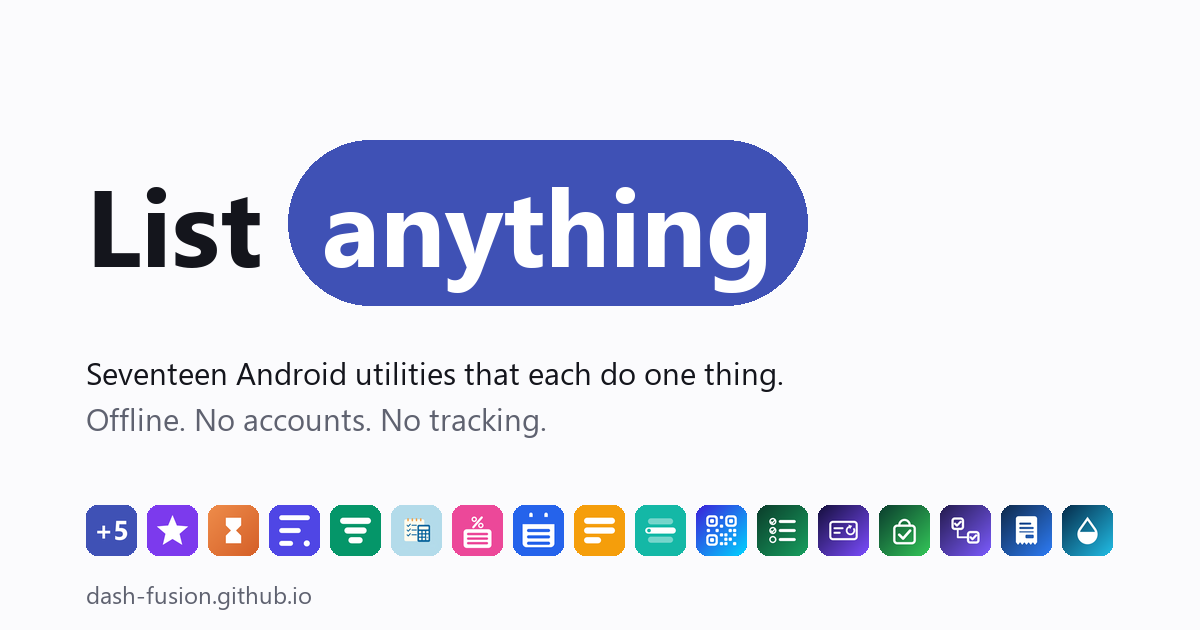
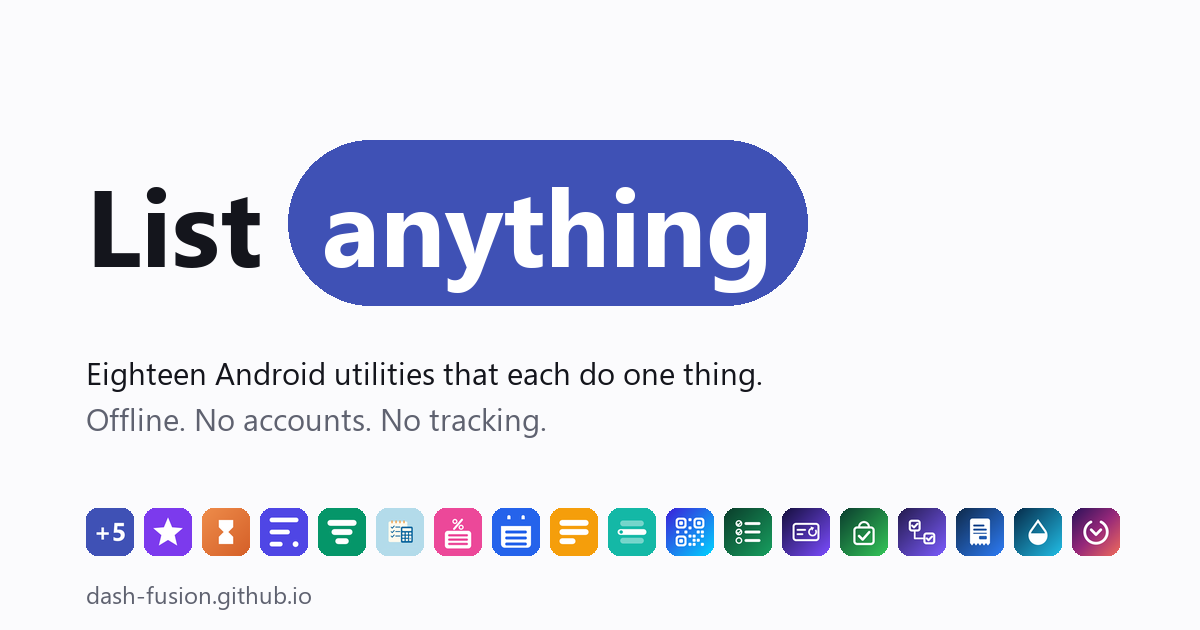
Add List Countdown as the eighteenth app

Changed region(s): [[0.0617, 0.7841, 0.9558, 0.9048], [0.0617, 0.573, 0.6475, 0.6333]]

diff --git a/index.html b/index.html
@@ -5,7 +5,7 @@
 <meta name="viewport" content="width=device-width, initial-scale=1">
 
 <title>Dash Fusion — offline-first Android utility apps</title>
-<meta name="description" content="Seventeen small Android utilities that each do one thing well — counters, timers, budgets, subscriptions, shopping lists, notes, QR codes and more — plus two offline games: Potion Sort color-sort puzzles and Neon PingPong arcade duels. Everything works fully offline, with no account required.">
+<meta name="description" content="Eighteen small Android utilities that each do one thing well — counters, timers, budgets, subscriptions, shopping lists, notes, QR codes and more — plus two offline games: Potion Sort color-sort puzzles and Neon PingPong arcade duels. Everything works fully offline, with no account required.">
 <link rel="canonical" href="https://dash-fusion.github.io/">
 <meta name="author" content="Dash Fusion">
 <meta name="robots" content="index, follow, max-image-preview:large">
@@ -16,14 +16,14 @@
 <meta property="og:site_name" content="Dash Fusion">
 <meta property="og:url" content="https://dash-fusion.github.io/">
 <meta property="og:title" content="Dash Fusion — offline-first Android utility apps">
-<meta property="og:description" content="Seventeen small Android utilities that each do one thing well, plus two offline games — Potion Sort and Neon PingPong. No account required.">
+<meta property="og:description" content="Eighteen small Android utilities that each do one thing well, plus two offline games — Potion Sort and Neon PingPong. No account required.">
 <meta property="og:image" content="https://dash-fusion.github.io/og.png">
 <meta property="og:image:width" content="1200">
 <meta property="og:image:height" content="630">
-<meta property="og:image:alt" content="Dash Fusion — List anything. The seventeen app icons in a row.">
+<meta property="og:image:alt" content="Dash Fusion — List anything. The eighteen app icons in a row.">
 <meta name="twitter:card" content="summary_large_image">
 <meta name="twitter:title" content="Dash Fusion — offline-first Android utility apps">
-<meta name="twitter:description" content="Seventeen small Android utilities that each do one thing well, plus two offline games — Potion Sort and Neon PingPong. No account required.">
+<meta name="twitter:description" content="Eighteen small Android utilities that each do one thing well, plus two offline games — Potion Sort and Neon PingPong. No account required.">
 <meta name="twitter:image" content="https://dash-fusion.github.io/og.png">
 
 <link rel="icon" href="/favicon.svg" type="image/svg+xml">
@@ -320,7 +320,7 @@ a{color:inherit}
 <header class="masthead shell">
   <p class="eyebrow">Dash Fusion</p>
   <h1 class="wordmark">List <span class="slot" id="slot"><span class="slot-text" id="slotText">anything</span></span></h1>
-  <p class="lede">Seventeen Android utilities that each do <strong>one thing</strong> — and two offline games for your breaks. Everything works offline, keeps your data on your phone, and never asks who you are.</p>
+  <p class="lede">Eighteen Android utilities that each do <strong>one thing</strong> — and two offline games for your breaks. Everything works offline, keeps your data on your phone, and never asks who you are.</p>
   <span class="slot-measure" id="slotMeasure" aria-hidden="true"></span>
 </header>
 
@@ -391,6 +391,19 @@ a{color:inherit}
           <div class="row-links">
             <a class="play-link" href="https://play.google.com/store/apps/details?id=com.dashfusion.listwater" aria-label="List Water on Google Play" title="Get it on Google Play"><svg class="play-glyph" aria-hidden="true" focusable="false"><use href="#gplay"></use></svg></a>
             <a href="https://dash-fusion.github.io/privacy/list-water" aria-label="List Water privacy policy">Privacy</a>
+          </div>
+        </div>
+      </li>
+      <li class="row" style="--hue:#6338C4;--deep:#6338C4">
+        <div class="row-in">
+          <img class="row-icon" src="icons/list-countdown.png" width="46" height="46" alt="" decoding="async">
+          <div>
+            <h3 class="row-name">List Countdown</h3>
+            <p class="row-desc">Count down to birthdays, trips and deadlines — with a home-screen widget.</p>
+          </div>
+          <div class="row-links">
+            <a class="play-link" href="https://play.google.com/store/apps/details?id=com.dashfusion.listcountdown" aria-label="List Countdown on Google Play" title="Get it on Google Play"><svg class="play-glyph" aria-hidden="true" focusable="false"><use href="#gplay"></use></svg></a>
+            <a href="https://dash-fusion.github.io/privacy/list-countdown" aria-label="List Countdown privacy policy">Privacy</a>
           </div>
         </div>
       </li>
@@ -669,7 +682,8 @@ a{color:inherit}
     {t:'Grocery',    c:'#146B45'},
     {t:'Todo',       c:'#4632B4'},
     {t:'Invoice',    c:'#1B5FBE'},
-    {t:'Water',      c:'#0A6FA8'}
+    {t:'Water',      c:'#0A6FA8'},
+    {t:'Countdown',  c:'#6338C4'}
   ];
   var i = 0;
 
@@ -736,27 +750,28 @@ a{color:inherit}
     {
       "@type":"ItemList",
       "name":"Dash Fusion Android apps",
-      "numberOfItems":19,
+      "numberOfItems":20,
       "itemListElement":[
         {"@type":"ListItem","position":1,"item":{"@type":"MobileApplication","name":"List Counter","applicationCategory":"UtilitiesApplication","operatingSystem":"Android","url":"https://play.google.com/store/apps/details?id=com.dashfusion.listcounter","image":"https://dash-fusion.github.io/icons/list-counter.png","description":"Tally reps, stock, laps or attendees with as many counters as you need.","author":{"@id":"https://dash-fusion.github.io/#org"},"offers":{"@type":"Offer","price":"0","priceCurrency":"USD"}}},
         {"@type":"ListItem","position":2,"item":{"@type":"MobileApplication","name":"List Habit","applicationCategory":"UtilitiesApplication","operatingSystem":"Android","url":"https://play.google.com/store/apps/details?id=com.dashfusion.listhabit","image":"https://dash-fusion.github.io/icons/list-habit.png","description":"Offline habit tracker — daily, weekday or weekly-goal habits with streaks, a month calendar and gentle reminders.","author":{"@id":"https://dash-fusion.github.io/#org"},"offers":{"@type":"Offer","price":"0","priceCurrency":"USD"}}},
         {"@type":"ListItem","position":3,"item":{"@type":"MobileApplication","name":"List Score","applicationCategory":"UtilitiesApplication","operatingSystem":"Android","url":"https://play.google.com/store/apps/details?id=com.dashfusion.listscore","image":"https://dash-fusion.github.io/icons/list-score.png","description":"Keep score for any game — cards, darts, board games, the classroom.","author":{"@id":"https://dash-fusion.github.io/#org"},"offers":{"@type":"Offer","price":"0","priceCurrency":"USD"}}},
         {"@type":"ListItem","position":4,"item":{"@type":"MobileApplication","name":"List Timer","applicationCategory":"UtilitiesApplication","operatingSystem":"Android","url":"https://play.google.com/store/apps/details?id=com.dashfusion.listtimer","image":"https://dash-fusion.github.io/icons/list-timer.png","description":"Run several named timers at once for cooking, workouts and breaks.","author":{"@id":"https://dash-fusion.github.io/#org"},"offers":{"@type":"Offer","price":"0","priceCurrency":"USD"}}},
         {"@type":"ListItem","position":5,"item":{"@type":"MobileApplication","name":"List Water","applicationCategory":"HealthApplication","operatingSystem":"Android","url":"https://play.google.com/store/apps/details?id=com.dashfusion.listwater","image":"https://dash-fusion.github.io/icons/list-water.png","description":"Offline water reminder and intake log — one-tap cups, a daily goal in ml or fl oz, reminders that stop once you reach it, history and streaks. No account, no banner ads.","author":{"@id":"https://dash-fusion.github.io/#org"},"offers":{"@type":"Offer","price":"0","priceCurrency":"USD"}}},
-        {"@type":"ListItem","position":6,"item":{"@type":"MobileApplication","name":"List Budget","applicationCategory":"FinanceApplication","operatingSystem":"Android","url":"https://play.google.com/store/apps/details?id=com.dashfusion.listbudget","image":"https://dash-fusion.github.io/icons/list-budget.png","description":"Set a monthly amount per category and always see what is left to spend.","author":{"@id":"https://dash-fusion.github.io/#org"},"offers":{"@type":"Offer","price":"0","priceCurrency":"USD"}}},
-        {"@type":"ListItem","position":7,"item":{"@type":"MobileApplication","name":"List Debt","applicationCategory":"FinanceApplication","operatingSystem":"Android","url":"https://play.google.com/store/apps/details?id=com.dashfusion.listdebt","image":"https://dash-fusion.github.io/icons/list-debt.png","description":"Track loans and installments, and see what to prepare this month.","author":{"@id":"https://dash-fusion.github.io/#org"},"offers":{"@type":"Offer","price":"0","priceCurrency":"USD"}}},
-        {"@type":"ListItem","position":8,"item":{"@type":"MobileApplication","name":"List Subs","applicationCategory":"FinanceApplication","operatingSystem":"Android","url":"https://play.google.com/store/apps/details?id=com.dashfusion.listsubscriptions","image":"https://dash-fusion.github.io/icons/list-subs.png","description":"Offline subscription tracker — next renewals, monthly and yearly totals, category breakdown, reminders, and what you save by cancelling. No bank login.","author":{"@id":"https://dash-fusion.github.io/#org"},"offers":{"@type":"Offer","price":"0","priceCurrency":"USD"}}},
-        {"@type":"ListItem","position":9,"item":{"@type":"MobileApplication","name":"List Calculator","applicationCategory":"UtilitiesApplication","operatingSystem":"Android","url":"https://play.google.com/store/apps/details?id=com.dashfusion.listcalculator","image":"https://dash-fusion.github.io/icons/list-calculator.png","description":"Keep separate calculation lists, each one totalled as you type.","author":{"@id":"https://dash-fusion.github.io/#org"},"offers":{"@type":"Offer","price":"0","priceCurrency":"USD"}}},
-        {"@type":"ListItem","position":10,"item":{"@type":"MobileApplication","name":"List Percent","applicationCategory":"UtilitiesApplication","operatingSystem":"Android","url":"https://play.google.com/store/apps/details?id=com.dashfusion.listpercent","image":"https://dash-fusion.github.io/icons/list-percent.png","description":"Percent of, percent change, tips, tax and discounts in one place.","author":{"@id":"https://dash-fusion.github.io/#org"},"offers":{"@type":"Offer","price":"0","priceCurrency":"USD"}}},
-        {"@type":"ListItem","position":11,"item":{"@type":"MobileApplication","name":"List Date","applicationCategory":"UtilitiesApplication","operatingSystem":"Android","url":"https://play.google.com/store/apps/details?id=com.dashfusion.listdate","image":"https://dash-fusion.github.io/icons/list-date.png","description":"Days between dates, ages, working days and deadlines that keep themselves current.","author":{"@id":"https://dash-fusion.github.io/#org"},"offers":{"@type":"Offer","price":"0","priceCurrency":"USD"}}},
-        {"@type":"ListItem","position":12,"item":{"@type":"MobileApplication","name":"List Notes","applicationCategory":"ProductivityApplication","operatingSystem":"Android","url":"https://play.google.com/store/apps/details?id=com.dashfusion.listnotes","image":"https://dash-fusion.github.io/icons/list-notes.png","description":"Notes with checklists, real tables, attachments and one-tap PDF export.","author":{"@id":"https://dash-fusion.github.io/#org"},"offers":{"@type":"Offer","price":"0","priceCurrency":"USD"}}},
-        {"@type":"ListItem","position":13,"item":{"@type":"MobileApplication","name":"List Picker","applicationCategory":"UtilitiesApplication","operatingSystem":"Android","url":"https://play.google.com/store/apps/details?id=com.dashfusion.listpicker","image":"https://dash-fusion.github.io/icons/list-picker.png","description":"Spin a wheel, draw a name, split teams or flip a coin.","author":{"@id":"https://dash-fusion.github.io/#org"},"offers":{"@type":"Offer","price":"0","priceCurrency":"USD"}}},
-        {"@type":"ListItem","position":14,"item":{"@type":"MobileApplication","name":"List Grocery","applicationCategory":"ShoppingApplication","operatingSystem":"Android","url":"https://play.google.com/store/apps/details?id=com.dashfusion.listgrocery","image":"https://dash-fusion.github.io/icons/list-grocery.png","description":"Offline shopping list built for the aisle — quick add, aisle order per store, staples, templates and an estimated total. No account, no banner ads.","author":{"@id":"https://dash-fusion.github.io/#org"},"offers":{"@type":"Offer","price":"0","priceCurrency":"USD"}}},
-        {"@type":"ListItem","position":15,"item":{"@type":"MobileApplication","name":"List Todo","applicationCategory":"ProductivityApplication","operatingSystem":"Android","url":"https://play.google.com/store/apps/details?id=com.dashfusion.listtodo","image":"https://dash-fusion.github.io/icons/list-todo.png","description":"Offline to-do list with unlimited nested sub-tasks — tick a parent to finish the branch, plus due dates, reminders and repeating tasks at any depth. No account, no banner ads.","author":{"@id":"https://dash-fusion.github.io/#org"},"offers":{"@type":"Offer","price":"0","priceCurrency":"USD"}}},
-        {"@type":"ListItem","position":16,"item":{"@type":"MobileApplication","name":"List QR","applicationCategory":"UtilitiesApplication","operatingSystem":"Android","url":"https://play.google.com/store/apps/details?id=com.dashfusion.qrgenerator","image":"https://dash-fusion.github.io/icons/list-qr.png","description":"Offline QR code and barcode generator — styled codes that still scan, saved to a list on your device.","author":{"@id":"https://dash-fusion.github.io/#org"},"offers":{"@type":"Offer","price":"0","priceCurrency":"USD"}}},
-        {"@type":"ListItem","position":17,"item":{"@type":"MobileApplication","name":"List Invoice","applicationCategory":"BusinessApplication","operatingSystem":"Android","url":"https://play.google.com/store/apps/details?id=com.dashfusion.listinvoice","image":"https://dash-fusion.github.io/icons/list-invoice.png","description":"Offline invoice maker — branded PDF invoices with no watermark, saved clients and items, automatic numbering, and paid and outstanding totals. No account, no banner ads.","author":{"@id":"https://dash-fusion.github.io/#org"},"offers":{"@type":"Offer","price":"0","priceCurrency":"USD"}}},
-        {"@type":"ListItem","position":18,"item":{"@type":"MobileApplication","name":"Neon PingPong","applicationCategory":"GameApplication","operatingSystem":"Android","url":"https://play.google.com/store/apps/details?id=com.dashfusion.pingpong","image":"https://dash-fusion.github.io/icons/pingpong.png","description":"Neon arcade ping pong — solo vs AI, two players on one phone, or Wi-Fi multiplayer. Fully offline.","author":{"@id":"https://dash-fusion.github.io/#org"},"offers":{"@type":"Offer","price":"0","priceCurrency":"USD"}}},
-        {"@type":"ListItem","position":19,"item":{"@type":"MobileApplication","name":"Potion Sort","applicationCategory":"GameApplication","operatingSystem":"Android","url":"https://play.google.com/store/apps/details?id=com.dashfusion.potion_sort","image":"https://dash-fusion.github.io/icons/potion-sort.png","description":"Offline color-sort puzzle with 999 solver-verified levels and a daily challenge.","author":{"@id":"https://dash-fusion.github.io/#org"},"offers":{"@type":"Offer","price":"0","priceCurrency":"USD"}}}
+        {"@type":"ListItem","position":6,"item":{"@type":"MobileApplication","name":"List Countdown","applicationCategory":"UtilitiesApplication","operatingSystem":"Android","url":"https://play.google.com/store/apps/details?id=com.dashfusion.listcountdown","image":"https://dash-fusion.github.io/icons/list-countdown.png","description":"Offline event countdown with home-screen widgets — days to go for birthdays, trips and deadlines, yearly repeats and milestone alerts. No account, no banner ads.","author":{"@id":"https://dash-fusion.github.io/#org"},"offers":{"@type":"Offer","price":"0","priceCurrency":"USD"}}},
+        {"@type":"ListItem","position":7,"item":{"@type":"MobileApplication","name":"List Budget","applicationCategory":"FinanceApplication","operatingSystem":"Android","url":"https://play.google.com/store/apps/details?id=com.dashfusion.listbudget","image":"https://dash-fusion.github.io/icons/list-budget.png","description":"Set a monthly amount per category and always see what is left to spend.","author":{"@id":"https://dash-fusion.github.io/#org"},"offers":{"@type":"Offer","price":"0","priceCurrency":"USD"}}},
+        {"@type":"ListItem","position":8,"item":{"@type":"MobileApplication","name":"List Debt","applicationCategory":"FinanceApplication","operatingSystem":"Android","url":"https://play.google.com/store/apps/details?id=com.dashfusion.listdebt","image":"https://dash-fusion.github.io/icons/list-debt.png","description":"Track loans and installments, and see what to prepare this month.","author":{"@id":"https://dash-fusion.github.io/#org"},"offers":{"@type":"Offer","price":"0","priceCurrency":"USD"}}},
+        {"@type":"ListItem","position":9,"item":{"@type":"MobileApplication","name":"List Subs","applicationCategory":"FinanceApplication","operatingSystem":"Android","url":"https://play.google.com/store/apps/details?id=com.dashfusion.listsubscriptions","image":"https://dash-fusion.github.io/icons/list-subs.png","description":"Offline subscription tracker — next renewals, monthly and yearly totals, category breakdown, reminders, and what you save by cancelling. No bank login.","author":{"@id":"https://dash-fusion.github.io/#org"},"offers":{"@type":"Offer","price":"0","priceCurrency":"USD"}}},
+        {"@type":"ListItem","position":10,"item":{"@type":"MobileApplication","name":"List Calculator","applicationCategory":"UtilitiesApplication","operatingSystem":"Android","url":"https://play.google.com/store/apps/details?id=com.dashfusion.listcalculator","image":"https://dash-fusion.github.io/icons/list-calculator.png","description":"Keep separate calculation lists, each one totalled as you type.","author":{"@id":"https://dash-fusion.github.io/#org"},"offers":{"@type":"Offer","price":"0","priceCurrency":"USD"}}},
+        {"@type":"ListItem","position":11,"item":{"@type":"MobileApplication","name":"List Percent","applicationCategory":"UtilitiesApplication","operatingSystem":"Android","url":"https://play.google.com/store/apps/details?id=com.dashfusion.listpercent","image":"https://dash-fusion.github.io/icons/list-percent.png","description":"Percent of, percent change, tips, tax and discounts in one place.","author":{"@id":"https://dash-fusion.github.io/#org"},"offers":{"@type":"Offer","price":"0","priceCurrency":"USD"}}},
+        {"@type":"ListItem","position":12,"item":{"@type":"MobileApplication","name":"List Date","applicationCategory":"UtilitiesApplication","operatingSystem":"Android","url":"https://play.google.com/store/apps/details?id=com.dashfusion.listdate","image":"https://dash-fusion.github.io/icons/list-date.png","description":"Days between dates, ages, working days and deadlines that keep themselves current.","author":{"@id":"https://dash-fusion.github.io/#org"},"offers":{"@type":"Offer","price":"0","priceCurrency":"USD"}}},
+        {"@type":"ListItem","position":13,"item":{"@type":"MobileApplication","name":"List Notes","applicationCategory":"ProductivityApplication","operatingSystem":"Android","url":"https://play.google.com/store/apps/details?id=com.dashfusion.listnotes","image":"https://dash-fusion.github.io/icons/list-notes.png","description":"Notes with checklists, real tables, attachments and one-tap PDF export.","author":{"@id":"https://dash-fusion.github.io/#org"},"offers":{"@type":"Offer","price":"0","priceCurrency":"USD"}}},
+        {"@type":"ListItem","position":14,"item":{"@type":"MobileApplication","name":"List Picker","applicationCategory":"UtilitiesApplication","operatingSystem":"Android","url":"https://play.google.com/store/apps/details?id=com.dashfusion.listpicker","image":"https://dash-fusion.github.io/icons/list-picker.png","description":"Spin a wheel, draw a name, split teams or flip a coin.","author":{"@id":"https://dash-fusion.github.io/#org"},"offers":{"@type":"Offer","price":"0","priceCurrency":"USD"}}},
+        {"@type":"ListItem","position":15,"item":{"@type":"MobileApplication","name":"List Grocery","applicationCategory":"ShoppingApplication","operatingSystem":"Android","url":"https://play.google.com/store/apps/details?id=com.dashfusion.listgrocery","image":"https://dash-fusion.github.io/icons/list-grocery.png","description":"Offline shopping list built for the aisle — quick add, aisle order per store, staples, templates and an estimated total. No account, no banner ads.","author":{"@id":"https://dash-fusion.github.io/#org"},"offers":{"@type":"Offer","price":"0","priceCurrency":"USD"}}},
+        {"@type":"ListItem","position":16,"item":{"@type":"MobileApplication","name":"List Todo","applicationCategory":"ProductivityApplication","operatingSystem":"Android","url":"https://play.google.com/store/apps/details?id=com.dashfusion.listtodo","image":"https://dash-fusion.github.io/icons/list-todo.png","description":"Offline to-do list with unlimited nested sub-tasks — tick a parent to finish the branch, plus due dates, reminders and repeating tasks at any depth. No account, no banner ads.","author":{"@id":"https://dash-fusion.github.io/#org"},"offers":{"@type":"Offer","price":"0","priceCurrency":"USD"}}},
+        {"@type":"ListItem","position":17,"item":{"@type":"MobileApplication","name":"List QR","applicationCategory":"UtilitiesApplication","operatingSystem":"Android","url":"https://play.google.com/store/apps/details?id=com.dashfusion.qrgenerator","image":"https://dash-fusion.github.io/icons/list-qr.png","description":"Offline QR code and barcode generator — styled codes that still scan, saved to a list on your device.","author":{"@id":"https://dash-fusion.github.io/#org"},"offers":{"@type":"Offer","price":"0","priceCurrency":"USD"}}},
+        {"@type":"ListItem","position":18,"item":{"@type":"MobileApplication","name":"List Invoice","applicationCategory":"BusinessApplication","operatingSystem":"Android","url":"https://play.google.com/store/apps/details?id=com.dashfusion.listinvoice","image":"https://dash-fusion.github.io/icons/list-invoice.png","description":"Offline invoice maker — branded PDF invoices with no watermark, saved clients and items, automatic numbering, and paid and outstanding totals. No account, no banner ads.","author":{"@id":"https://dash-fusion.github.io/#org"},"offers":{"@type":"Offer","price":"0","priceCurrency":"USD"}}},
+        {"@type":"ListItem","position":19,"item":{"@type":"MobileApplication","name":"Neon PingPong","applicationCategory":"GameApplication","operatingSystem":"Android","url":"https://play.google.com/store/apps/details?id=com.dashfusion.pingpong","image":"https://dash-fusion.github.io/icons/pingpong.png","description":"Neon arcade ping pong — solo vs AI, two players on one phone, or Wi-Fi multiplayer. Fully offline.","author":{"@id":"https://dash-fusion.github.io/#org"},"offers":{"@type":"Offer","price":"0","priceCurrency":"USD"}}},
+        {"@type":"ListItem","position":20,"item":{"@type":"MobileApplication","name":"Potion Sort","applicationCategory":"GameApplication","operatingSystem":"Android","url":"https://play.google.com/store/apps/details?id=com.dashfusion.potion_sort","image":"https://dash-fusion.github.io/icons/potion-sort.png","description":"Offline color-sort puzzle with 999 solver-verified levels and a daily challenge.","author":{"@id":"https://dash-fusion.github.io/#org"},"offers":{"@type":"Offer","price":"0","priceCurrency":"USD"}}}
       ]
     }
   ]

diff --git a/scripts/gen_social.py b/scripts/gen_social.py
@@ -25,7 +25,7 @@ REGULAR = "C:/Windows/Fonts/segoeui.ttf"
 APPS = [
     "counter", "score", "timer", "budget", "debt",
     "calculator", "percent", "date", "notes", "picker", "qr", "habit", "subs", "grocery",
-    "todo", "invoice", "water",
+    "todo", "invoice", "water", "countdown",
 ]
 
 
@@ -63,7 +63,7 @@ def build_og(path):
 
     d.text(
         (left, py1 + 46),
-        "Seventeen Android utilities that each do one thing.",
+        "Eighteen Android utilities that each do one thing.",
         font=sub,
         fill=INK,
     )
